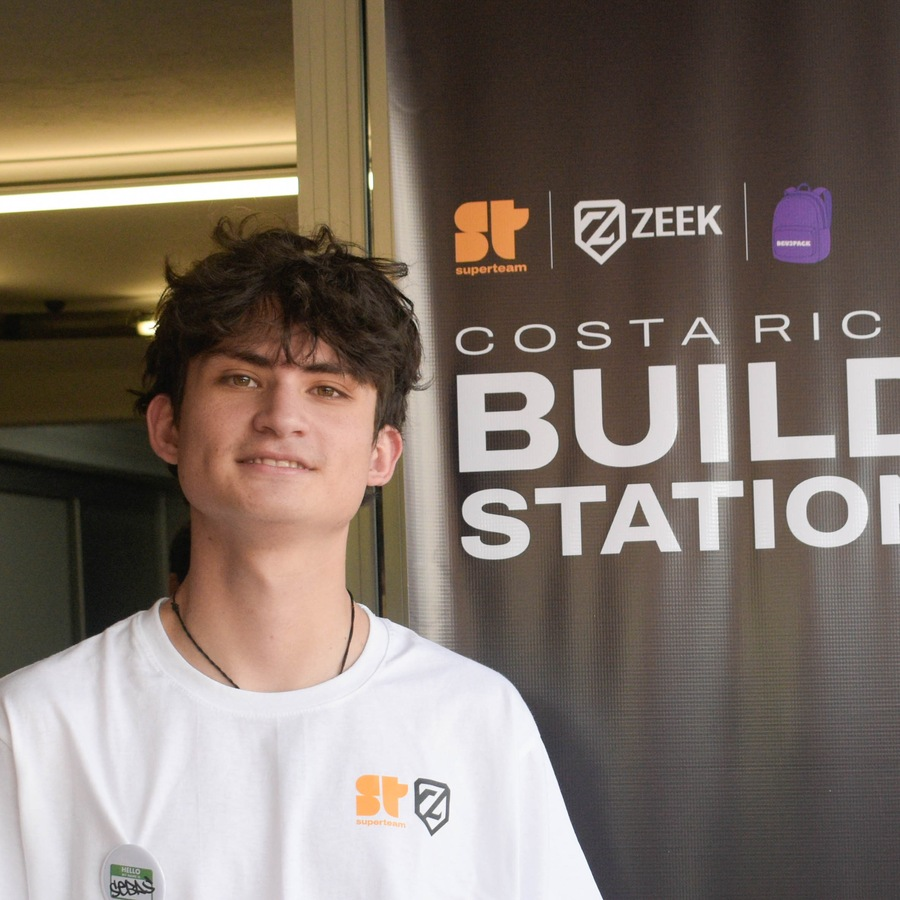
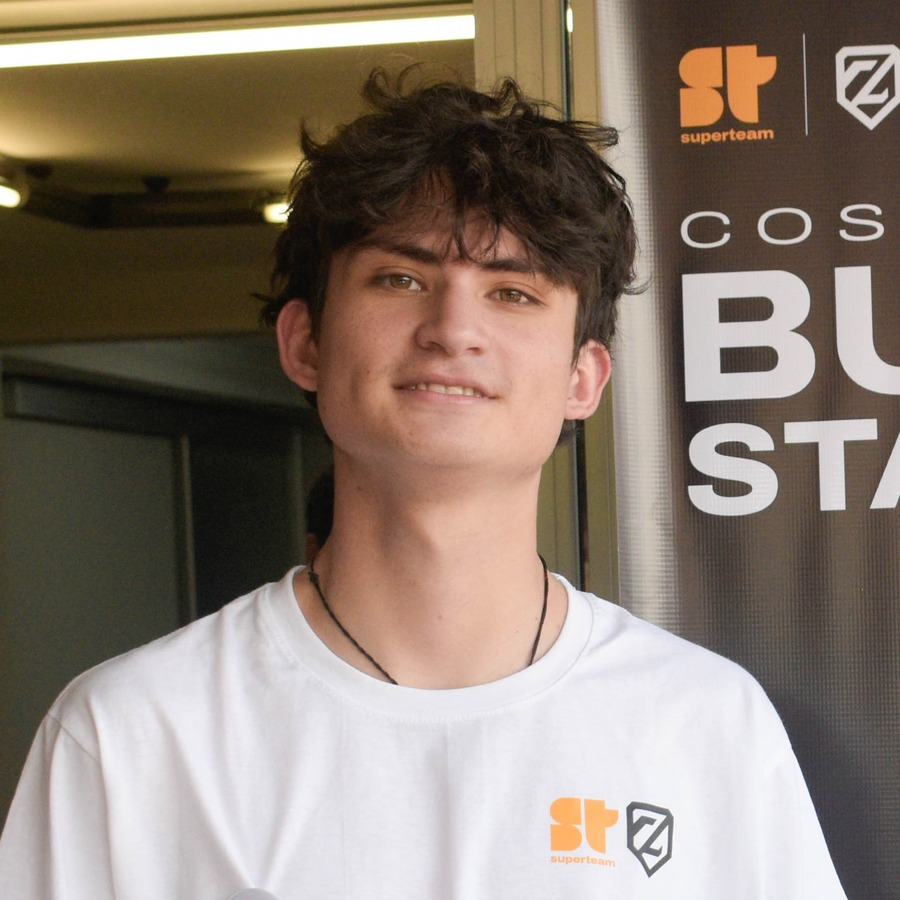
p9: recenter team photos like Josué (head + torso, no L/R bias)

diff --git a/p9/index.html b/p9/index.html
@@ -205,7 +205,7 @@ html,body{overflow-x:clip}
 <div class="rec"><article><b>01</b><h3>Talleres prácticos</h3><p>Sesiones para aprender haciendo, desde lo básico hasta lo aplicado.</p></article><article><b>02</b><h3>Material educativo</h3><p>Guías, recursos y contenido curado para explorar Web3 a tu ritmo.</p></article><article><b>03</b><h3>Networking y comunidad</h3><p>Espacios para conectar con personas, ideas y proyectos.</p></article><article><b>04</b><h3>Oportunidades</h3><p>Difusión de programas, convocatorias y espacios para participar.</p></article></div></section>
 <section><div class="hd"><h2><span class="thin">Así se vive</span><br><span class="heavy">ZEEK</span></h2></div><div class="gal"><figure class="big"><img src="assets/g-aleph-grupo.jpg" alt="Aleph Hackathon II" loading="lazy"><figcaption>Aleph Hackathon II</figcaption></figure><figure class=""><img src="assets/g-dev3pack.jpg" alt="Dev3Pack x Solana" loading="lazy"><figcaption>Dev3Pack x Solana</figcaption></figure><figure class=""><img src="assets/g-aleph-build.jpg" alt="Aleph Hackathon" loading="lazy"><figcaption>Aleph Hackathon</figcaption></figure><figure class=""><img src="assets/g-cursor.jpg" alt="Cursor Meetup San José" loading="lazy"><figcaption>Cursor Meetup San José</figcaption></figure><figure class=""><img src="assets/g-tico.jpg" alt="TicoBlockchain" loading="lazy"><figcaption>TicoBlockchain</figcaption></figure><figure class="wide"><img src="assets/gal-una-wide.jpg" alt="Meet Up UNA · 9 de mayo" loading="lazy"></figure><figure class=""><img src="assets/g-sesiones.jpg" alt="Encuentros ZEEK" loading="lazy"><figcaption>Encuentros ZEEK</figcaption></figure><figure class=""><img src="assets/g-meetup.jpg" alt="Meetup ZEEK" loading="lazy"><figcaption>Meetup ZEEK</figcaption></figure></div></section>
 
-<section id="equipo"><div class="hd"><h2><span class="thin">Las personas</span><br><span class="heavy">detrás de ZEEK</span></h2><p>Conocenos. El equipo que hace posible la comunidad.</p></div><div class="team" id="tcar"><button class="arr tarr" id="tpv" type="button" aria-label="Anterior">←</button><button class="arr tarr" id="tnx" type="button" aria-label="Siguiente">→</button><div class="fl3"><div class="fi3"><div class="fa3"><div class="av3"><img src="assets/team/sebastian.jpg?v=face3" alt="Sebastián Ceciliano" width="120" height="120" loading="lazy" decoding="async"></div><div class="nm"><h4>Sebastián Ceciliano</h4><span class="ib" aria-hidden="true"><svg viewBox="0 0 24 24"><polyline points="3 17 9 11 13 15 21 7"/><polyline points="15 7 21 7 21 13"/></svg></span></div></div><div class="fb3"><div class="rl">Growth Head</div><p>Lidera el crecimiento de ZEEK, sumando aliados y nuevas oportunidades para la comunidad.</p></div></div></div><div class="fl3"><div class="fi3"><div class="fa3"><div class="av3"><img src="assets/team/tamara.jpg?v=face3" alt="Tamara Ortega" width="120" height="120" loading="lazy" decoding="async"></div><div class="nm"><h4>Tamara Ortega</h4><span class="ib" aria-hidden="true"><svg viewBox="0 0 24 24"><path d="M9.6 2.8h4.8l.55 2.15a6.9 6.9 0 0 1 1.85.95l2.1-.9 2.4 4.15-1.7 1.55c.12.45.18.92.18 1.4s-.06.95-.18 1.4l1.7 1.55-2.4 4.15-2.1-.9a6.9 6.9 0 0 1-1.85.95L14.4 21.2H9.6l-.55-2.15a6.9 6.9 0 0 1-1.85-.95l-2.1.9-2.4-4.15 1.7-1.55A6.8 6.8 0 0 1 4.22 12c0-.48.06-.95.18-1.4L2.7 9.05l2.4-4.15 2.1.9a6.9 6.9 0 0 1 1.85-.95L9.6 2.8z"/><circle cx="12" cy="12" r="3.1"/></svg></span></div></div><div class="fb3"><div class="rl">Operations Head</div><p>Lleva a cabo que los proyectos de ZEEK pasen del papel a la realidad.</p></div></div></div><div class="fl3"><div class="fi3"><div class="fa3"><div class="av3"><img src="assets/team/emilio.jpg?v=face3" alt="Emilio Alfaro" width="120" height="120" loading="lazy" decoding="async"></div><div class="nm"><h4>Emilio Alfaro</h4><span class="ib" aria-hidden="true"><svg viewBox="0 0 24 24"><path d="M4.5 5.5h11a2 2 0 0 1 2 2v5.2a2 2 0 0 1-2 2H10l-3.2 2.6V14.7H4.5a2 2 0 0 1-2-2V7.5a2 2 0 0 1 2-2z"/><path d="M9.2 16.8h6.3l2.6 2.1v-2.1h.4a2 2 0 0 0 2-2V10"/></svg></span></div></div><div class="fb3"><div class="rl">Communications Head</div><p>Cuenta lo que pasa en ZEEK, compartiendo lo que la comunidad construye.</p></div></div></div><div class="fl3"><div class="fi3"><div class="fa3"><div class="av3"><img src="assets/team/esteban.jpg?v=face3" alt="Esteban Brenes" width="120" height="120" loading="lazy" decoding="async"></div><div class="nm"><h4>Esteban Brenes</h4><span class="ib" aria-hidden="true"><svg viewBox="0 0 24 24"><polyline points="8 6 3 12 8 18"/><polyline points="16 6 21 12 16 18"/><line x1="13.5" y1="5" x2="10.5" y2="19"/></svg></span></div></div><div class="fb3"><div class="rl">Technical Head</div><p>Acompaña a los builders de ZEEK en el desarrollo de cada proyecto.</p></div></div></div><div class="fl3"><div class="fi3"><div class="fa3"><div class="av3"><img src="assets/team/josue.jpg?v=face3" alt="Josué Valles" width="120" height="120" loading="lazy" decoding="async"></div><div class="nm"><h4>Josué Valles</h4><span class="ib" aria-hidden="true"><svg viewBox="0 0 24 24"><rect x="3.5" y="5" width="17" height="15.5" rx="2"/><line x1="3.5" y1="10" x2="20.5" y2="10"/><line x1="8" y1="3.5" x2="8" y2="7"/><line x1="16" y1="3.5" x2="16" y2="7"/><circle cx="8.5" cy="14.2" r="0.9" fill="#01E576" stroke="none"/><circle cx="12" cy="14.2" r="0.9" fill="#01E576" stroke="none"/><circle cx="15.5" cy="14.2" r="0.9" fill="#01E576" stroke="none"/></svg></span></div></div><div class="fb3"><div class="rl">Logistics Head</div><p>Coordina que cada evento de la comunidad esté listo, desde el espacio hasta los detalles.</p></div></div></div></div><div class="cc tcc"><div class="dots" id="tdots"></div></div></section>
+<section id="equipo"><div class="hd"><h2><span class="thin">Las personas</span><br><span class="heavy">detrás de ZEEK</span></h2><p>Conocenos. El equipo que hace posible la comunidad.</p></div><div class="team" id="tcar"><button class="arr tarr" id="tpv" type="button" aria-label="Anterior">←</button><button class="arr tarr" id="tnx" type="button" aria-label="Siguiente">→</button><div class="fl3"><div class="fi3"><div class="fa3"><div class="av3"><img src="assets/team/sebastian.jpg?v=face4" alt="Sebastián Ceciliano" width="120" height="120" loading="lazy" decoding="async"></div><div class="nm"><h4>Sebastián Ceciliano</h4><span class="ib" aria-hidden="true"><svg viewBox="0 0 24 24"><polyline points="3 17 9 11 13 15 21 7"/><polyline points="15 7 21 7 21 13"/></svg></span></div></div><div class="fb3"><div class="rl">Growth Head</div><p>Lidera el crecimiento de ZEEK, sumando aliados y nuevas oportunidades para la comunidad.</p></div></div></div><div class="fl3"><div class="fi3"><div class="fa3"><div class="av3"><img src="assets/team/tamara.jpg?v=face4" alt="Tamara Ortega" width="120" height="120" loading="lazy" decoding="async"></div><div class="nm"><h4>Tamara Ortega</h4><span class="ib" aria-hidden="true"><svg viewBox="0 0 24 24"><path d="M9.6 2.8h4.8l.55 2.15a6.9 6.9 0 0 1 1.85.95l2.1-.9 2.4 4.15-1.7 1.55c.12.45.18.92.18 1.4s-.06.95-.18 1.4l1.7 1.55-2.4 4.15-2.1-.9a6.9 6.9 0 0 1-1.85.95L14.4 21.2H9.6l-.55-2.15a6.9 6.9 0 0 1-1.85-.95l-2.1.9-2.4-4.15 1.7-1.55A6.8 6.8 0 0 1 4.22 12c0-.48.06-.95.18-1.4L2.7 9.05l2.4-4.15 2.1.9a6.9 6.9 0 0 1 1.85-.95L9.6 2.8z"/><circle cx="12" cy="12" r="3.1"/></svg></span></div></div><div class="fb3"><div class="rl">Operations Head</div><p>Lleva a cabo que los proyectos de ZEEK pasen del papel a la realidad.</p></div></div></div><div class="fl3"><div class="fi3"><div class="fa3"><div class="av3"><img src="assets/team/emilio.jpg?v=face4" alt="Emilio Alfaro" width="120" height="120" loading="lazy" decoding="async"></div><div class="nm"><h4>Emilio Alfaro</h4><span class="ib" aria-hidden="true"><svg viewBox="0 0 24 24"><path d="M4.5 5.5h11a2 2 0 0 1 2 2v5.2a2 2 0 0 1-2 2H10l-3.2 2.6V14.7H4.5a2 2 0 0 1-2-2V7.5a2 2 0 0 1 2-2z"/><path d="M9.2 16.8h6.3l2.6 2.1v-2.1h.4a2 2 0 0 0 2-2V10"/></svg></span></div></div><div class="fb3"><div class="rl">Communications Head</div><p>Cuenta lo que pasa en ZEEK, compartiendo lo que la comunidad construye.</p></div></div></div><div class="fl3"><div class="fi3"><div class="fa3"><div class="av3"><img src="assets/team/esteban.jpg?v=face4" alt="Esteban Brenes" width="120" height="120" loading="lazy" decoding="async"></div><div class="nm"><h4>Esteban Brenes</h4><span class="ib" aria-hidden="true"><svg viewBox="0 0 24 24"><polyline points="8 6 3 12 8 18"/><polyline points="16 6 21 12 16 18"/><line x1="13.5" y1="5" x2="10.5" y2="19"/></svg></span></div></div><div class="fb3"><div class="rl">Technical Head</div><p>Acompaña a los builders de ZEEK en el desarrollo de cada proyecto.</p></div></div></div><div class="fl3"><div class="fi3"><div class="fa3"><div class="av3"><img src="assets/team/josue.jpg?v=face4" alt="Josué Valles" width="120" height="120" loading="lazy" decoding="async"></div><div class="nm"><h4>Josué Valles</h4><span class="ib" aria-hidden="true"><svg viewBox="0 0 24 24"><rect x="3.5" y="5" width="17" height="15.5" rx="2"/><line x1="3.5" y1="10" x2="20.5" y2="10"/><line x1="8" y1="3.5" x2="8" y2="7"/><line x1="16" y1="3.5" x2="16" y2="7"/><circle cx="8.5" cy="14.2" r="0.9" fill="#01E576" stroke="none"/><circle cx="12" cy="14.2" r="0.9" fill="#01E576" stroke="none"/><circle cx="15.5" cy="14.2" r="0.9" fill="#01E576" stroke="none"/></svg></span></div></div><div class="fb3"><div class="rl">Logistics Head</div><p>Coordina que cada evento de la comunidad esté listo, desde el espacio hasta los detalles.</p></div></div></div></div><div class="cc tcc"><div class="dots" id="tdots"></div></div></section>
 <section class="partners"><div class="hd"><h2><span class="thin">Nuestros</span><br><span class="heavy">partners</span></h2><p>Organizaciones que construyen con nosotros.</p></div>
 <div class="mqw"><div class="mq"><div class="tr"><a class="pt" href="https://linktr.ee/StellarLATAM" target="_blank" rel="noopener" aria-label="Starmaker · Stellar (abre en pestaña nueva)"><img src="assets/p-stellar.jpg" alt=""><div>Starmaker · Stellar<small>PARTNER</small></div></a><a class="pt" href="https://www.techrebel.world/" target="_blank" rel="noopener" aria-label="Tech Rebel (abre en pestaña nueva)"><span class="wm2">TECH<i>REBEL</i></span><div><small>PARTNER</small></div></a><a class="pt" href="https://crecimiento.build/" target="_blank" rel="noopener" aria-label="Crecimiento (abre en pestaña nueva)"><img src="assets/p-crecimiento.jpg" alt=""><div>Crecimiento<small>PARTNER</small></div></a><a class="pt" href="https://www.blockchainacceleration.org/" target="_blank" rel="noopener" aria-label="BAF (abre en pestaña nueva)"><img src="assets/partners/p-baf.png" alt=""><div>BAF<small>PARTNER</small></div></a><a class="pt" href="https://solana.com/" target="_blank" rel="noopener" aria-label="Solana (abre en pestaña nueva)"><img src="assets/partners/p-solana.png" alt=""><div>Solana<small>PARTNER</small></div></a><a class="pt" href="https://www.dev3pack.xyz/" target="_blank" rel="noopener" aria-label="Dev3Pack (abre en pestaña nueva)"><img src="assets/partners/p-dev3pack.png" alt=""><div>Dev3Pack<small>PARTNER</small></div></a><a class="pt" href="https://cursor.com/" target="_blank" rel="noopener" aria-label="Cursor (abre en pestaña nueva)"><img src="assets/partners/p-cursor.png" alt=""><div>Cursor<small>PARTNER</small></div></a><a class="pt" href="https://pizzadao.org/" target="_blank" rel="noopener" aria-label="PizzaDAO (abre en pestaña nueva)"><img src="assets/partners/p-pizzadao.png" alt=""><div>PizzaDAO<small>PARTNER</small></div></a><a class="pt" href="https://telluscoop.org/" target="_blank" rel="noopener" aria-label="TellusCoop (abre en pestaña nueva)"><img src="assets/partners/p-tellus.png" alt=""><div>TellusCoop<small>PARTNER</small></div></a><a class="pt" href="https://linktr.ee/StellarLATAM" target="_blank" rel="noopener" aria-label="Starmaker · Stellar (abre en pestaña nueva)" tabindex="-1" aria-hidden="true"><img src="assets/p-stellar.jpg" alt=""><div>Starmaker · Stellar<small>PARTNER</small></div></a><a class="pt" href="https://www.techrebel.world/" target="_blank" rel="noopener" aria-label="Tech Rebel (abre en pestaña nueva)" tabindex="-1" aria-hidden="true"><span class="wm2">TECH<i>REBEL</i></span><div><small>PARTNER</small></div></a><a class="pt" href="https://crecimiento.build/" target="_blank" rel="noopener" aria-label="Crecimiento (abre en pestaña nueva)" tabindex="-1" aria-hidden="true"><img src="assets/p-crecimiento.jpg" alt=""><div>Crecimiento<small>PARTNER</small></div></a><a class="pt" href="https://www.blockchainacceleration.org/" target="_blank" rel="noopener" aria-label="BAF (abre en pestaña nueva)" tabindex="-1" aria-hidden="true"><img src="assets/partners/p-baf.png" alt=""><div>BAF<small>PARTNER</small></div></a><a class="pt" href="https://solana.com/" target="_blank" rel="noopener" aria-label="Solana (abre en pestaña nueva)" tabindex="-1" aria-hidden="true"><img src="assets/partners/p-solana.png" alt=""><div>Solana<small>PARTNER</small></div></a><a class="pt" href="https://www.dev3pack.xyz/" target="_blank" rel="noopener" aria-label="Dev3Pack (abre en pestaña nueva)" tabindex="-1" aria-hidden="true"><img src="assets/partners/p-dev3pack.png" alt=""><div>Dev3Pack<small>PARTNER</small></div></a><a class="pt" href="https://cursor.com/" target="_blank" rel="noopener" aria-label="Cursor (abre en pestaña nueva)" tabindex="-1" aria-hidden="true"><img src="assets/partners/p-cursor.png" alt=""><div>Cursor<small>PARTNER</small></div></a><a class="pt" href="https://pizzadao.org/" target="_blank" rel="noopener" aria-label="PizzaDAO (abre en pestaña nueva)" tabindex="-1" aria-hidden="true"><img src="assets/partners/p-pizzadao.png" alt=""><div>PizzaDAO<small>PARTNER</small></div></a><a class="pt" href="https://telluscoop.org/" target="_blank" rel="noopener" aria-label="TellusCoop (abre en pestaña nueva)" tabindex="-1" aria-hidden="true"><img src="assets/partners/p-tellus.png" alt=""><div>TellusCoop<small>PARTNER</small></div></a><a class="pt" href="https://linktr.ee/StellarLATAM" target="_blank" rel="noopener" aria-label="Starmaker · Stellar (abre en pestaña nueva)" tabindex="-1" aria-hidden="true"><img src="assets/p-stellar.jpg" alt=""><div>Starmaker · Stellar<small>PARTNER</small></div></a><a class="pt" href="https://www.techrebel.world/" target="_blank" rel="noopener" aria-label="Tech Rebel (abre en pestaña nueva)" tabindex="-1" aria-hidden="true"><span class="wm2">TECH<i>REBEL</i></span><div><small>PARTNER</small></div></a><a class="pt" href="https://crecimiento.build/" target="_blank" rel="noopener" aria-label="Crecimiento (abre en pestaña nueva)" tabindex="-1" aria-hidden="true"><img src="assets/p-crecimiento.jpg" alt=""><div>Crecimiento<small>PARTNER</small></div></a><a class="pt" href="https://www.blockchainacceleration.org/" target="_blank" rel="noopener" aria-label="BAF (abre en pestaña nueva)" tabindex="-1" aria-hidden="true"><img src="assets/partners/p-baf.png" alt=""><div>BAF<small>PARTNER</small></div></a><a class="pt" href="https://solana.com/" target="_blank" rel="noopener" aria-label="Solana (abre en pestaña nueva)" tabindex="-1" aria-hidden="true"><img src="assets/partners/p-solana.png" alt=""><div>Solana<small>PARTNER</small></div></a><a class="pt" href="https://www.dev3pack.xyz/" target="_blank" rel="noopener" aria-label="Dev3Pack (abre en pestaña nueva)" tabindex="-1" aria-hidden="true"><img src="assets/partners/p-dev3pack.png" alt=""><div>Dev3Pack<small>PARTNER</small></div></a><a class="pt" href="https://cursor.com/" target="_blank" rel="noopener" aria-label="Cursor (abre en pestaña nueva)" tabindex="-1" aria-hidden="true"><img src="assets/partners/p-cursor.png" alt=""><div>Cursor<small>PARTNER</small></div></a><a class="pt" href="https://pizzadao.org/" target="_blank" rel="noopener" aria-label="PizzaDAO (abre en pestaña nueva)" tabindex="-1" aria-hidden="true"><img src="assets/partners/p-pizzadao.png" alt=""><div>PizzaDAO<small>PARTNER</small></div></a><a class="pt" href="https://telluscoop.org/" target="_blank" rel="noopener" aria-label="TellusCoop (abre en pestaña nueva)" tabindex="-1" aria-hidden="true"><img src="assets/partners/p-tellus.png" alt=""><div>TellusCoop<small>PARTNER</small></div></a></div></div><div class="mq rev"><div class="tr"><a class="pt" href="https://www.ticoblockchain.cr/" target="_blank" rel="noopener" aria-label="Ticoblockchain (abre en pestaña nueva)"><div>Ticoblockchain<small>ALIADO</small></div></a><a class="pt" href="https://ufidelitas.ac.cr/" target="_blank" rel="noopener" aria-label="Fidélitas (abre en pestaña nueva)"><div>Fidélitas<small>ALIADO</small></div></a><a class="pt" href="https://www.trustlesswork.com/" target="_blank" rel="noopener" aria-label="Trustless Work (abre en pestaña nueva)"><img src="assets/partners/p-trustless.png" alt=""><div>Trustless Work<small>ALIADO</small></div></a><a class="pt" href="https://asoblockchain.org/" target="_blank" rel="noopener" aria-label="AsoBlockchain (abre en pestaña nueva)"><img src="assets/partners/p-aso.png" alt=""><div>AsoBlockchain<small>ALIADO</small></div></a><a class="pt" href="https://stellar.org/" target="_blank" rel="noopener" aria-label="Stellar SDF (abre en pestaña nueva)"><img src="assets/partners/p-sdf.png" alt=""><div>Stellar SDF<small>ALIADO</small></div></a><a class="pt" href="https://stellarpassport.xyz/" target="_blank" rel="noopener" aria-label="Stellar Passport (abre en pestaña nueva)"><img src="assets/partners/p-spassport.png" alt=""><div>Stellar Passport<small>ALIADO</small></div></a><a class="pt" href="https://luma.com/user/SuperteamCR" target="_blank" rel="noopener" aria-label="Superteam CR (abre en pestaña nueva)"><img src="assets/partners/p-superteam.png" alt=""><div>Superteam CR<small>ALIADO</small></div></a><a class="pt" href="https://www.lyfter.academy/" target="_blank" rel="noopener" aria-label="Lyfter (abre en pestaña nueva)"><img src="assets/partners/p-lyfter.png" alt=""><div>Lyfter<small>ALIADO</small></div></a><a class="pt" href="https://brave.com/" target="_blank" rel="noopener" aria-label="Brave (abre en pestaña nueva)"><img src="assets/partners/p-brave.png" alt=""><div>Brave<small>ALIADO</small></div></a><a class="pt" href="https://crtechweek.com/" target="_blank" rel="noopener" aria-label="CR Tech Week (abre en pestaña nueva)"><img src="assets/partners/p-crtech.png" alt=""><div>CR Tech Week<small>ALIADO</small></div></a><a class="pt" href="https://costarica.wordcamp.org/2026/sponsor/zeek/" target="_blank" rel="noopener" aria-label="WordCamp CR (abre en pestaña nueva)"><img src="assets/partners/p-wordcamp.png" alt=""><div>WordCamp CR<small>ALIADO</small></div></a><a class="pt" href="https://linktr.ee/SolanaCR" target="_blank" rel="noopener" aria-label="Solana Costa Rica (abre en pestaña nueva)"><img src="assets/partners/p-solanacr.png" alt=""><div>Solana Costa Rica<small>ALIADO</small></div></a><a class="pt" href="https://luma.com/spacexsi-community" target="_blank" rel="noopener" aria-label="SpaceXSI (abre en pestaña nueva)"><img src="assets/partners/p-spacexsi.png" alt=""><div>SpaceXSI<small>ALIADO</small></div></a><a class="pt" href="https://www.ticoblockchain.cr/" target="_blank" rel="noopener" aria-label="Ticoblockchain (abre en pestaña nueva)" tabindex="-1" aria-hidden="true"><div>Ticoblockchain<small>ALIADO</small></div></a><a class="pt" href="https://ufidelitas.ac.cr/" target="_blank" rel="noopener" aria-label="Fidélitas (abre en pestaña nueva)" tabindex="-1" aria-hidden="true"><div>Fidélitas<small>ALIADO</small></div></a><a class="pt" href="https://www.trustlesswork.com/" target="_blank" rel="noopener" aria-label="Trustless Work (abre en pestaña nueva)" tabindex="-1" aria-hidden="true"><img src="assets/partners/p-trustless.png" alt=""><div>Trustless Work<small>ALIADO</small></div></a><a class="pt" href="https://asoblockchain.org/" target="_blank" rel="noopener" aria-label="AsoBlockchain (abre en pestaña nueva)" tabindex="-1" aria-hidden="true"><img src="assets/partners/p-aso.png" alt=""><div>AsoBlockchain<small>ALIADO</small></div></a><a class="pt" href="https://stellar.org/" target="_blank" rel="noopener" aria-label="Stellar SDF (abre en pestaña nueva)" tabindex="-1" aria-hidden="true"><img src="assets/partners/p-sdf.png" alt=""><div>Stellar SDF<small>ALIADO</small></div></a><a class="pt" href="https://stellarpassport.xyz/" target="_blank" rel="noopener" aria-label="Stellar Passport (abre en pestaña nueva)" tabindex="-1" aria-hidden="true"><img src="assets/partners/p-spassport.png" alt=""><div>Stellar Passport<small>ALIADO</small></div></a><a class="pt" href="https://luma.com/user/SuperteamCR" target="_blank" rel="noopener" aria-label="Superteam CR (abre en pestaña nueva)" tabindex="-1" aria-hidden="true"><img src="assets/partners/p-superteam.png" alt=""><div>Superteam CR<small>ALIADO</small></div></a><a class="pt" href="https://www.lyfter.academy/" target="_blank" rel="noopener" aria-label="Lyfter (abre en pestaña nueva)" tabindex="-1" aria-hidden="true"><img src="assets/partners/p-lyfter.png" alt=""><div>Lyfter<small>ALIADO</small></div></a><a class="pt" href="https://brave.com/" target="_blank" rel="noopener" aria-label="Brave (abre en pestaña nueva)" tabindex="-1" aria-hidden="true"><img src="assets/partners/p-brave.png" alt=""><div>Brave<small>ALIADO</small></div></a><a class="pt" href="https://crtechweek.com/" target="_blank" rel="noopener" aria-label="CR Tech Week (abre en pestaña nueva)" tabindex="-1" aria-hidden="true"><img src="assets/partners/p-crtech.png" alt=""><div>CR Tech Week<small>ALIADO</small></div></a><a class="pt" href="https://costarica.wordcamp.org/2026/sponsor/zeek/" target="_blank" rel="noopener" aria-label="WordCamp CR (abre en pestaña nueva)" tabindex="-1" aria-hidden="true"><img src="assets/partners/p-wordcamp.png" alt=""><div>WordCamp CR<small>ALIADO</small></div></a><a class="pt" href="https://linktr.ee/SolanaCR" target="_blank" rel="noopener" aria-label="Solana Costa Rica (abre en pestaña nueva)" tabindex="-1" aria-hidden="true"><img src="assets/partners/p-solanacr.png" alt=""><div>Solana Costa Rica<small>ALIADO</small></div></a><a class="pt" href="https://luma.com/spacexsi-community" target="_blank" rel="noopener" aria-label="SpaceXSI (abre en pestaña nueva)" tabindex="-1" aria-hidden="true"><img src="assets/partners/p-spacexsi.png" alt=""><div>SpaceXSI<small>ALIADO</small></div></a></div></div></div><div class="pgrid" id="pgrid"><a class="pt" href="https://linktr.ee/StellarLATAM" target="_blank" rel="noopener" aria-label="Starmaker · Stellar (abre en pestaña nueva)"><img src="assets/p-stellar.jpg" alt=""><div>Starmaker · Stellar<small>PARTNER</small></div></a><a class="pt" href="https://www.techrebel.world/" target="_blank" rel="noopener" aria-label="Tech Rebel (abre en pestaña nueva)"><span class="wm2">TECH<i>REBEL</i></span><div><small>PARTNER</small></div></a><a class="pt" href="https://crecimiento.build/" target="_blank" rel="noopener" aria-label="Crecimiento (abre en pestaña nueva)"><img src="assets/p-crecimiento.jpg" alt=""><div>Crecimiento<small>PARTNER</small></div></a><a class="pt" href="https://www.blockchainacceleration.org/" target="_blank" rel="noopener" aria-label="BAF (abre en pestaña nueva)"><img src="assets/partners/p-baf.png" alt=""><div>BAF<small>PARTNER</small></div></a><a class="pt" href="https://solana.com/" target="_blank" rel="noopener" aria-label="Solana (abre en pestaña nueva)"><img src="assets/partners/p-solana.png" alt=""><div>Solana<small>PARTNER</small></div></a><a class="pt" href="https://www.dev3pack.xyz/" target="_blank" rel="noopener" aria-label="Dev3Pack (abre en pestaña nueva)"><img src="assets/partners/p-dev3pack.png" alt=""><div>Dev3Pack<small>PARTNER</small></div></a><a class="pt" href="https://cursor.com/" target="_blank" rel="noopener" aria-label="Cursor (abre en pestaña nueva)"><img src="assets/partners/p-cursor.png" alt=""><div>Cursor<small>PARTNER</small></div></a><a class="pt" href="https://pizzadao.org/" target="_blank" rel="noopener" aria-label="PizzaDAO (abre en pestaña nueva)"><img src="assets/partners/p-pizzadao.png" alt=""><div>PizzaDAO<small>PARTNER</small></div></a><a class="pt" href="https://telluscoop.org/" target="_blank" rel="noopener" aria-label="TellusCoop (abre en pestaña nueva)"><img src="assets/partners/p-tellus.png" alt=""><div>TellusCoop<small>PARTNER</small></div></a><a class="pt" href="https://www.ticoblockchain.cr/" target="_blank" rel="noopener" aria-label="Ticoblockchain (abre en pestaña nueva)"><div>Ticoblockchain<small>ALIADO</small></div></a><a class="pt" href="https://ufidelitas.ac.cr/" target="_blank" rel="noopener" aria-label="Fidélitas (abre en pestaña nueva)"><div>Fidélitas<small>ALIADO</small></div></a><a class="pt" href="https://www.trustlesswork.com/" target="_blank" rel="noopener" aria-label="Trustless Work (abre en pestaña nueva)"><img src="assets/partners/p-trustless.png" alt=""><div>Trustless Work<small>ALIADO</small></div></a><a class="pt" href="https://asoblockchain.org/" target="_blank" rel="noopener" aria-label="AsoBlockchain (abre en pestaña nueva)"><img src="assets/partners/p-aso.png" alt=""><div>AsoBlockchain<small>ALIADO</small></div></a><a class="pt" href="https://stellar.org/" target="_blank" rel="noopener" aria-label="Stellar SDF (abre en pestaña nueva)"><img src="assets/partners/p-sdf.png" alt=""><div>Stellar SDF<small>ALIADO</small></div></a><a class="pt" href="https://stellarpassport.xyz/" target="_blank" rel="noopener" aria-label="Stellar Passport (abre en pestaña nueva)"><img src="assets/partners/p-spassport.png" alt=""><div>Stellar Passport<small>ALIADO</small></div></a><a class="pt" href="https://luma.com/user/SuperteamCR" target="_blank" rel="noopener" aria-label="Superteam CR (abre en pestaña nueva)"><img src="assets/partners/p-superteam.png" alt=""><div>Superteam CR<small>ALIADO</small></div></a><a class="pt" href="https://www.lyfter.academy/" target="_blank" rel="noopener" aria-label="Lyfter (abre en pestaña nueva)"><img src="assets/partners/p-lyfter.png" alt=""><div>Lyfter<small>ALIADO</small></div></a><a class="pt" href="https://brave.com/" target="_blank" rel="noopener" aria-label="Brave (abre en pestaña nueva)"><img src="assets/partners/p-brave.png" alt=""><div>Brave<small>ALIADO</small></div></a><a class="pt" href="https://crtechweek.com/" target="_blank" rel="noopener" aria-label="CR Tech Week (abre en pestaña nueva)"><img src="assets/partners/p-crtech.png" alt=""><div>CR Tech Week<small>ALIADO</small></div></a><a class="pt" href="https://costarica.wordcamp.org/2026/sponsor/zeek/" target="_blank" rel="noopener" aria-label="WordCamp CR (abre en pestaña nueva)"><img src="assets/partners/p-wordcamp.png" alt=""><div>WordCamp CR<small>ALIADO</small></div></a><a class="pt" href="https://linktr.ee/SolanaCR" target="_blank" rel="noopener" aria-label="Solana Costa Rica (abre en pestaña nueva)"><img src="assets/partners/p-solanacr.png" alt=""><div>Solana Costa Rica<small>ALIADO</small></div></a><a class="pt" href="https://luma.com/spacexsi-community" target="_blank" rel="noopener" aria-label="SpaceXSI (abre en pestaña nueva)"><img src="assets/partners/p-spacexsi.png" alt=""><div>SpaceXSI<small>ALIADO</small></div></a></div><button class="pall" type="button" aria-controls="pgrid" aria-expanded="false">Ver todos</button></section>
 <section id="comunidad"><div class="hd"><h2><span class="thin">Nuestros</span><br><span class="heavy">canales</span></h2></div><div class="bento">
